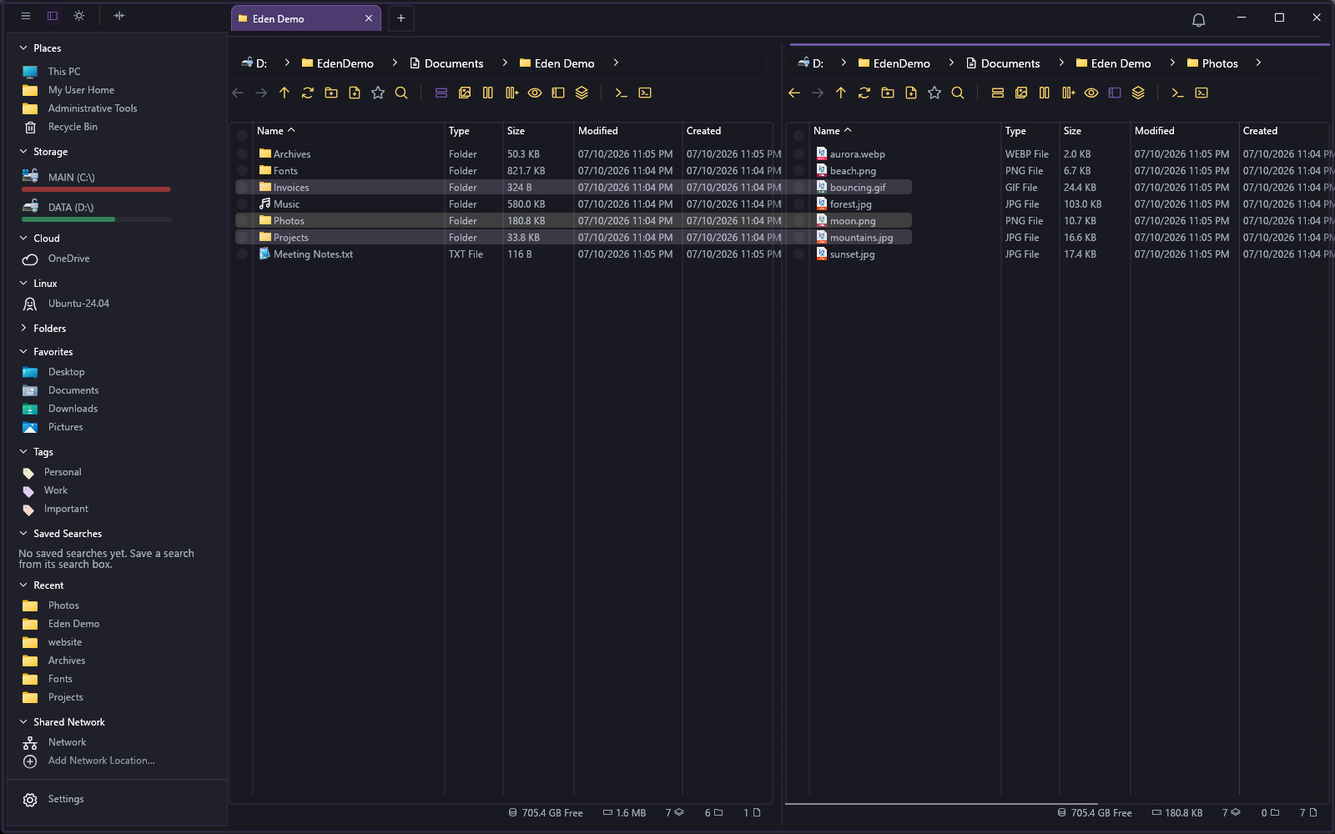
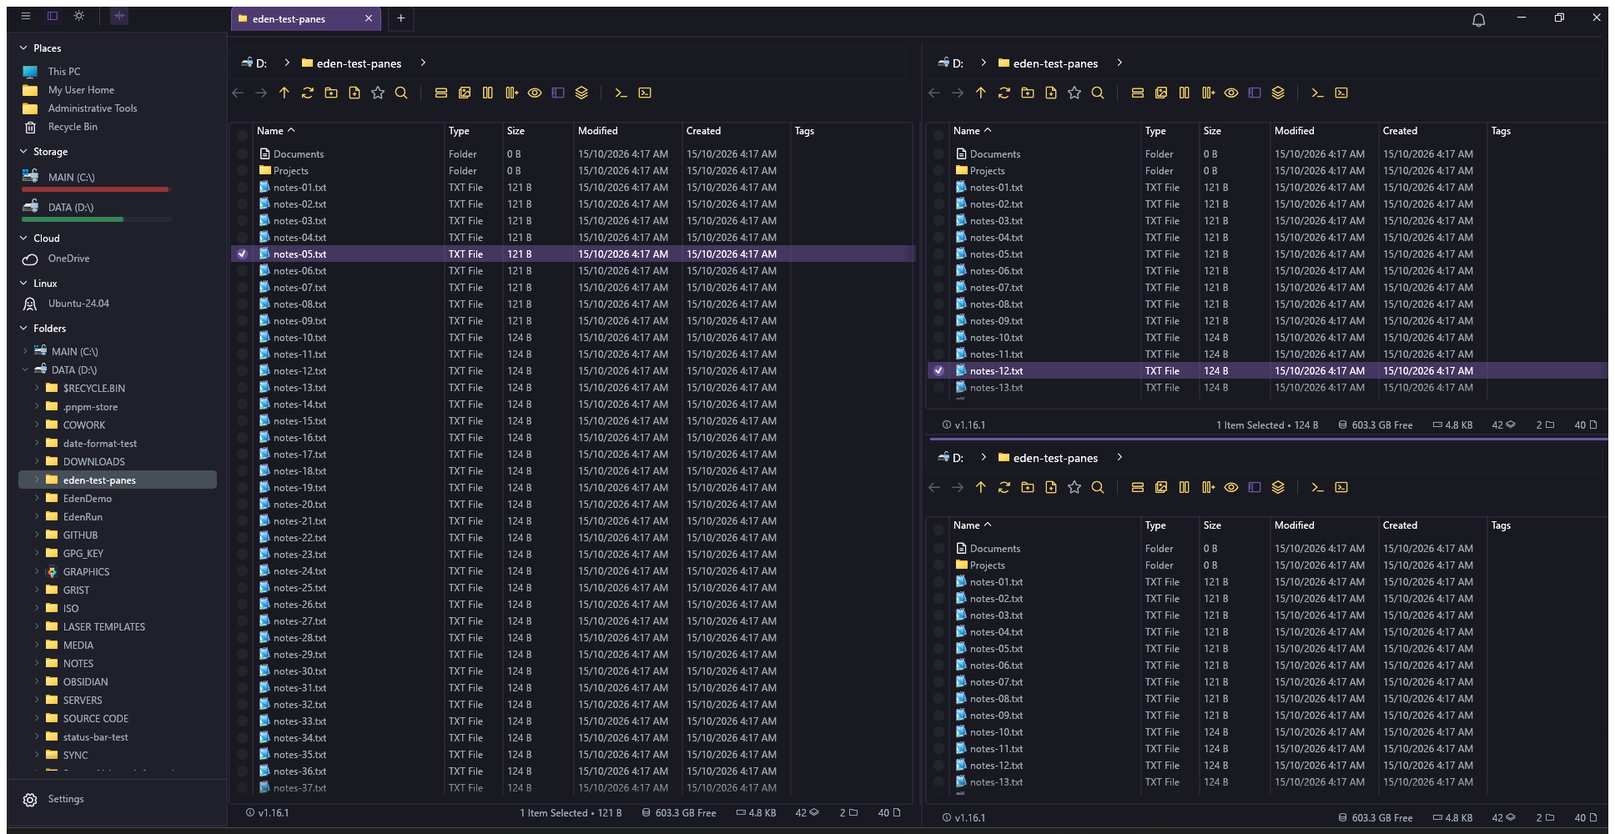
Document the three-pane verification, and screenshot it
Live-verified the four changes that shipped in v1.17.0 and marked them
Completed: the split button stepping through one/two/three panes, the arrow
keys moving only the focused pane's selection, the preview following the
selection and the arrow keys, and Nushell running in the terminal pane.
Screenshots/13-split-view.png is now the three-pane layout rather than the
old two-pane split.

Also recorded three lessons in CLAUDE.md: a guessed egui widget id that
resolves to nothing reads as "never scrolled" rather than "no answer" (and
what to do instead), every view being drawn once per pane means a keyboard
handler needs the is_focused gate, and a cache keyed by text length instead
of by the file it belongs to breaks on two files of the same size.

diff --git a/CHECKLIST.md b/CHECKLIST.md
@@ -609,31 +609,31 @@ Rationale and detail for each item is in `PRD.md` §9.
 
 | State | Item |
 |---|---|
-| In-Progress | **Direct user request: "add detail layout can have max 3 panes, instead of 2. For 3 pane, there a 2 columns, the first left column have 1 pane full height, and second right column have 2 pane split equal horizontal."** `SplitSide` gained a `Tertiary` variant and `TabState` a `third_view: Option<TabView>` (only ever `Some` alongside `split_view` - the third pane splits the *second* column, so it has nowhere to go without one). The topbar's split button is now a three-step cycle rather than a toggle (`cycle_split_for_active_tab`): one pane -> two side by side -> three -> back to one, its icon and tooltip naming what the *next* press does (`SPLIT_HORIZONTAL`/`tooltip_open_split`, `ROWS_PLUS_BOTTOM`/`tooltip_add_third_pane` - 1 new i18n key across all six locales - `ARROWS_IN_LINE_HORIZONTAL`/`tooltip_close_split`). The layout in `mainwindow.rs` was also **collapsed from three near-identical copies of the pane-drawing code (primary, secondary, single) into one loop** over `(side, rect)` pairs plus the untouched single-pane branch, writing each pane's actions into a 3-slot array - adding a third pane by copy-pasting the block a third time would have been ~110 more lines of duplication. Rects: the left column is `floor((width - 8) / 2)` wide and full height; the right column holds the second pane alone, or the second and third in equal halves with the same 8px gap and a divider line between them. Everything that has to touch "every open pane" (re-listing on window focus or a watched-folder change, Git status, portable tags, folder-size scans and batches, the end-of-frame drag reset, closing a tab's remembered folder views, the non-NTFS popup check, remote reloads) now iterates `TabState::sides()`/`views()`/`views_mut()` instead of a hard-coded Primary/Secondary pair, so a pane cannot be missed by one of them - the same shape of gap this file and `CLAUDE.md` have both recorded before. **Postcard safety**: `SessionTabEntry` gained `third_path` appended at the very end, plus a `SessionTabsSnapshotLegacy` shadow struct and fallback decode (the `CustomThemeEntryLegacy` pattern), so sessions saved by an older build still restore instead of being silently dropped on the first launch after the update; a test asserts both that the new shape round-trips all three panes and that it *cannot* decode legacy bytes (otherwise the fallback would never run). **Known limitation, deliberate**: a Tab Group entry still carries at most two folders (`path` + `split_path`), so adding a three-pane tab to a group saves its first two panes. `cargo test` (478) and the i18n check pass. **Live-verified**: the split button stepped one -> two -> three panes, rendering exactly the requested geometry (one full-height pane on the left, two equal stacked panes on the right, each with its own breadcrumb, toolbar and status bar). |
+| Completed | **Direct user request: "add detail layout can have max 3 panes, instead of 2. For 3 pane, there a 2 columns, the first left column have 1 pane full height, and second right column have 2 pane split equal horizontal."** `SplitSide` gained a `Tertiary` variant and `TabState` a `third_view: Option<TabView>` (only ever `Some` alongside `split_view` - the third pane splits the *second* column, so it has nowhere to go without one). The topbar's split button is now a three-step cycle rather than a toggle (`cycle_split_for_active_tab`): one pane -> two side by side -> three -> back to one, its icon and tooltip naming what the *next* press does (`SPLIT_HORIZONTAL`/`tooltip_open_split`, `ROWS_PLUS_BOTTOM`/`tooltip_add_third_pane` - 1 new i18n key across all six locales - `ARROWS_IN_LINE_HORIZONTAL`/`tooltip_close_split`). The layout in `mainwindow.rs` was also **collapsed from three near-identical copies of the pane-drawing code (primary, secondary, single) into one loop** over `(side, rect)` pairs plus the untouched single-pane branch, writing each pane's actions into a 3-slot array - adding a third pane by copy-pasting the block a third time would have been ~110 more lines of duplication. Rects: the left column is `floor((width - 8) / 2)` wide and full height; the right column holds the second pane alone, or the second and third in equal halves with the same 8px gap and a divider line between them. Everything that has to touch "every open pane" (re-listing on window focus or a watched-folder change, Git status, portable tags, folder-size scans and batches, the end-of-frame drag reset, closing a tab's remembered folder views, the non-NTFS popup check, remote reloads) now iterates `TabState::sides()`/`views()`/`views_mut()` instead of a hard-coded Primary/Secondary pair, so a pane cannot be missed by one of them - the same shape of gap this file and `CLAUDE.md` have both recorded before. **Postcard safety**: `SessionTabEntry` gained `third_path` appended at the very end, plus a `SessionTabsSnapshotLegacy` shadow struct and fallback decode (the `CustomThemeEntryLegacy` pattern), so sessions saved by an older build still restore instead of being silently dropped on the first launch after the update; a test asserts both that the new shape round-trips all three panes and that it *cannot* decode legacy bytes (otherwise the fallback would never run). **Known limitation, deliberate**: a Tab Group entry still carries at most two folders (`path` + `split_path`), so adding a three-pane tab to a group saves its first two panes. `cargo test` (478) and the i18n check pass. **Live-verified**: the split button stepped one -> two -> three panes, rendering exactly the requested geometry (one full-height pane on the left, two equal stacked panes on the right, each with its own breadcrumb, toolbar and status bar), and stepped back to one. `Screenshots/13-split-view.png` is now that three-pane layout rather than the old two-pane split. |
 
 ### Lists auto-scroll while a drag is held at their edge
 
 | State | Item |
 |---|---|
-| In-Progress | **Direct user request: "when user drag file/folder in the view that have scrollable bar, the scroll not move up or down to where user want the files/folder to move in. It should be like windows explorer."** With the primary button held, neither the wheel nor the scrollbar is reachable, so the only drop targets were the rows that happened to be visible when the drag began. `drag_scroll_delta` (`itemviewer_helper.rs`) returns the points to scroll this frame from the pointer's distance into a 40px edge zone (capped at the rect's own third, so a short list keeps a still zone in the middle), ramping to 900 points/s at the edge and staying there once past it; `drag_scroll_offset` reads the `ScrollArea`'s current offset out of `egui::scroll_area::State`, adds the delta, and asks for a repaint - a drag held still produces no events of its own, so without that the scroll would stop after one frame. Wired into the Details/Detail-Preview table (`TableBuilder::vertical_scroll_offset`, keyed off the table's own `state_id.with("__scroll_area")`) and the Gallery grid; Columns and Preview have no internal drag to scroll for. The far end needs no clamping of its own - `ScrollArea` clamps the offset against a content height only it knows. 5 unit tests cover the geometry (middle, each edge, past the edge, beside the list, and a list too short to have two edge zones). Works with spring-loaded folders: scroll to a folder, rest on it, keep going. |
+| Completed | **Direct user request: "when user drag file/folder in the view that have scrollable bar, the scroll not move up or down to where user want the files/folder to move in. It should be like windows explorer."** With the primary button held, neither the wheel nor the scrollbar is reachable, so the only drop targets were the rows that happened to be visible when the drag began. `drag_scroll_delta` (`itemviewer_helper.rs`) returns the points to scroll this frame from the pointer's distance into a 40px edge zone (capped at the rect's own third, so a short list keeps a still zone in the middle), ramping to 900 points/s at the edge and staying there once past it; `drag_scroll_offset` reads the `ScrollArea`'s current offset out of `egui::scroll_area::State`, adds the delta, and asks for a repaint - a drag held still produces no events of its own, so without that the scroll would stop after one frame. Wired into the Details/Detail-Preview table (`TableBuilder::vertical_scroll_offset`, keyed off the table's own `state_id.with("__scroll_area")`) and the Gallery grid; Columns and Preview have no internal drag to scroll for. The far end needs no clamping of its own - `ScrollArea` clamps the offset against a content height only it knows. 5 unit tests cover the geometry (middle, each edge, past the edge, beside the list, and a list too short to have two edge zones). Works with spring-loaded folders: scroll to a folder, rest on it, keep going. **Live-verified**: holding a drag at the bottom edge of a 42-item folder ran the list from the first row to the last within the hold, and holding at the top ran it back, ending with the target folder highlighted as the drop target. **One wrong turn worth recording**: the first cut looked the `ScrollArea`'s current offset up by id - `TableBuilder` derives its scroll area's id through two layers (`ui.id().with(state_id.with("__scroll_area"))`), the guess was wrong, and `State::load` returning `None` is indistinguishable from "never scrolled", so the list jumped by exactly one frame's worth of scroll and then sat there. Each list now keeps its own offset from the `ScrollAreaOutput` its scroll area returns, so there is no id to guess. |
 
 ### The preview pane follows the selection
 
 | State | Item |
 |---|---|
-| In-Progress | **Direct user request: "when user switch to preview and detail + preview layout, automatic selected file will preview the file on the right. And when user browse file using arrow up and down, allow the navigation so that the preview on the right also update."** Both preview layouts set `preview_selection` from a mouse click on a row and nowhere else, so arrow-key navigation moved the selection while the pane kept showing the file clicked before it, and switching *into* a preview layout with something already selected previewed nothing at all. `sync_preview_selection` (`itemviewer_preview.rs`) runs every frame in both layouts: a single selected item that is not already what the pane is showing becomes the new `preview_selection`, requesting its content if it is a file. Running it every frame rather than hooking the arrow keys covers every other way a selection can change too (type-to-filter, a search result, a newly created file). The Preview layout's list also scrolls its focused row into view on an arrow/Home/End press, which it had no way to do before (keyboard navigation has no row response of its own to scroll with). **Fixed a real bug this surfaced**: the preview's syntax-highlighted galley was cached keyed by `(text length, dark mode, find highlight)` - no file - so two different files of the *same* size showed one file's name above the other's contents (hit immediately with 65-byte test files, and the stale text then sat there indefinitely). The cache key now includes the path. The per-row click handler still requests its own preview, so a click still previews in the same frame rather than the next one. |
+| Completed | **Direct user request: "when user switch to preview and detail + preview layout, automatic selected file will preview the file on the right. And when user browse file using arrow up and down, allow the navigation so that the preview on the right also update."** Both preview layouts set `preview_selection` from a mouse click on a row and nowhere else, so arrow-key navigation moved the selection while the pane kept showing the file clicked before it, and switching *into* a preview layout with something already selected previewed nothing at all. `sync_preview_selection` (`itemviewer_preview.rs`) runs every frame in both layouts: a single selected item that is not already what the pane is showing becomes the new `preview_selection`, requesting its content if it is a file. Running it every frame rather than hooking the arrow keys covers every other way a selection can change too (type-to-filter, a search result, a newly created file). The Preview layout's list also scrolls its focused row into view on an arrow/Home/End press, which it had no way to do before (keyboard navigation has no row response of its own to scroll with). **Fixed a real bug this surfaced**: the preview's syntax-highlighted galley was cached keyed by `(text length, dark mode, find highlight)` - no file - so two different files of the *same* size showed one file's name above the other's contents (hit immediately with 65-byte test files, and the stale text then sat there indefinitely). The cache key now includes the path. The per-row click handler still requests its own preview, so a click still previews in the same frame rather than the next one. **Live-verified**: switching a pane to the Preview layout with a file already selected previewed it immediately (it would have shown an empty pane before), and three Down presses walked the preview from `notes-05.txt` to `notes-08.txt` with the body text following the title - which also exercises the stale-galley fix, since every file in that folder is the same size. |
 
 ### Nushell in the terminal pane, and a PATH that is not a stale copy
 
 | State | Item |
 |---|---|
-| In-Progress | **Direct user report: "I cannot run nu in terminal pane (https://www.nushell.sh/). Already install and put the path in environment variable (both user and system)."** Two things, and the second is the one that explains the report. (1) Nushell was simply not among the shells `core::terminal_shells` looks for: added `ShellKind::Nushell` with discovery (the winget/MSI `%ProgramFiles%\nu\bin\nu.exe`, Scoop, Chocolatey, `~/.cargo/bin`, the WinGet Links shim, then `PATH`), an argument-less launch (a bare `nu` starts its REPL in the folder the pseudo console is given), a `TERMINAL_WINDOW` icon, and a `cd_command` that quotes the way Nushell wants - single quotes take no escapes at all there, so a path containing an apostrophe switches to the double-quoted form with its backslashes doubled. (2) `find_on_path` read `std::env::var_os("PATH")`, which is the *copy this process was started with* - verified on this machine: `nu.exe` is on both the machine and user `PATH` in the registry and **not** in the running process's own environment, so even a correctly installed Nushell would not have been found. `path_dirs` now appends the `PATH` as the registry currently holds it (`HKLM\...\Session Manager\Environment` and `HKCU\Environment`, expanded) after the process's own, so a shell installed - or added to `PATH` - while the app was already running is found without restarting it; a test pins that the process's own entries still come first and that nothing is listed twice. |
+| Completed | **Direct user report: "I cannot run nu in terminal pane (https://www.nushell.sh/). Already install and put the path in environment variable (both user and system)."** Two things, and the second is the one that explains the report. (1) Nushell was simply not among the shells `core::terminal_shells` looks for: added `ShellKind::Nushell` with discovery (the winget/MSI `%ProgramFiles%\nu\bin\nu.exe`, Scoop, Chocolatey, `~/.cargo/bin`, the WinGet Links shim, then `PATH`), an argument-less launch (a bare `nu` starts its REPL in the folder the pseudo console is given), a `TERMINAL_WINDOW` icon, and a `cd_command` that quotes the way Nushell wants - single quotes take no escapes at all there, so a path containing an apostrophe switches to the double-quoted form with its backslashes doubled. (2) `find_on_path` read `std::env::var_os("PATH")`, which is the *copy this process was started with* - verified on this machine: `nu.exe` is on both the machine and user `PATH` in the registry and **not** in the running process's own environment, so even a correctly installed Nushell would not have been found. `path_dirs` now appends the `PATH` as the registry currently holds it (`HKLM\...\Session Manager\Environment` and `HKCU\Environment`, expanded) after the process's own, so a shell installed - or added to `PATH` - while the app was already running is found without restarting it; a test pins that the process's own entries still come first and that nothing is listed twice. **Live-verified**: Nushell appears in the terminal pane's **+** menu between Git Bash and the WSL distributions, starts in the folder being browsed (its prompt opened at the scratch folder), and runs commands - `ls | length` returned 42, matching that folder exactly. |
 
 ### Only the active pane walks its list on an arrow key
 
 | State | Item |
 |---|---|
-| In-Progress | **Direct user report, immediately after the three-pane and preview-follows-selection work above: "when user active on a pane, only that pane will do the action keyboard up and down to view the preview file, not all 2 or 3 pane at same time."** The Details/Detail-Preview table's `handle_keyboard_navigation` call (`itemviewer.rs`) was gated on `!modal_input_blocked` **only** - not on `is_focused`, which is what tells a pane it is the active one. A split draws that same table two or three times in one frame, each with its own `explorer_state`, so a single arrow key moved the selection in *every* pane at once. The Gallery view's equivalent call has always had the gate; the table's simply never did, and nothing made it visible while the selection was only a highlight. The preview pane following the selection is what surfaced it - every pane changed what it was showing together. Fixed by adding `&& is_focused`, matching Gallery. **Second half of the same report**: the **Preview** layout had no arrow-key navigation *at all* - `draw_item_viewer` returns into `draw_preview_view` before ever reaching that call, so its list could only be walked with the mouse. It now runs the same `handle_keyboard_navigation` itself, gated the same way, and scrolls the focused row into view. **When adding a keyboard handler to a view here, gate it on `is_focused`**: every view is drawn once per pane, so an ungated handler is not "the active pane's keyboard" but all of them at once. |
+| Completed | **Direct user report, immediately after the three-pane and preview-follows-selection work above: "when user active on a pane, only that pane will do the action keyboard up and down to view the preview file, not all 2 or 3 pane at same time."** The Details/Detail-Preview table's `handle_keyboard_navigation` call (`itemviewer.rs`) was gated on `!modal_input_blocked` **only** - not on `is_focused`, which is what tells a pane it is the active one. A split draws that same table two or three times in one frame, each with its own `explorer_state`, so a single arrow key moved the selection in *every* pane at once. The Gallery view's equivalent call has always had the gate; the table's simply never did, and nothing made it visible while the selection was only a highlight. The preview pane following the selection is what surfaced it - every pane changed what it was showing together. Fixed by adding `&& is_focused`, matching Gallery. **Second half of the same report**: the **Preview** layout had no arrow-key navigation *at all* - `draw_item_viewer` returns into `draw_preview_view` before ever reaching that call, so its list could only be walked with the mouse. It now runs the same `handle_keyboard_navigation` itself, gated the same way, and scrolls the focused row into view. **When adding a keyboard handler to a view here, gate it on `is_focused`**: every view is drawn once per pane, so an ungated handler is not "the active pane's keyboard" but all of them at once. **Live-verified**: with a different file selected in each pane of a split, pressing Down twice moved only the focused pane's selection (`notes-10` -> `notes-12`) and left the other pane's (`notes-05`) exactly where it was. |
 
 ### New app icon
 

diff --git a/CLAUDE.md b/CLAUDE.md
@@ -2534,6 +2534,58 @@ PowerShell process) rather than the app's own code - if you're using the
   unrelated change. Tests cannot run this way (they would be Windows
   binaries), and none of it replaces live verification of a UI change.
 
+- **A guessed `egui` widget id that resolves to nothing is indistinguishable
+  from a widget that has never been used - and for a scroll offset that means
+  "scrolled to the top", not "no answer".** The new drag auto-scroll read the
+  list's current offset with `egui::scroll_area::State::load(ctx, id)`, adding
+  a delta to it each frame. For the Details table the id was wrong:
+  `TableBuilder` builds its `ScrollArea` with
+  `id_salt(state_id.with("__scroll_area"))`, `ScrollArea` then resolves that
+  through `ui.make_persistent_id`, and `state_id` is itself
+  `ui.id().with(id_salt)` - so the real id is `ui.id().with(ui.id()
+  .with(id_salt).with("__scroll_area"))`, two layers deep. `load` returned
+  `None`, the code treated that as offset `0.0`, and the list therefore
+  jumped to exactly one frame's worth of scroll and sat there for ever while
+  the drag was held - which reads as "the feature half-works", not as "the id
+  is wrong". Two attempts at *deriving* the id (one layer, then two) both
+  missed; what settled it was a debug build printing the `load` result every
+  frame, which showed `state=None` with a perfectly good pointer and delta.
+  **The fix was to stop needing the id at all**: `Table::body` returns a
+  `ScrollAreaOutput`, and `ScrollArea::show`/`show_viewport` likewise, whose
+  `.state.offset.y` is the widget's own account of where it ended up - stored
+  in `ctx.data_mut` each frame under an id this code owns, and read back on
+  the next one. If something needs another widget's internal state, prefer
+  whatever that widget *returns* over reconstructing the id it files that
+  state under, and if an id must be guessed, make a miss fail loudly rather
+  than silently defaulting (`drag_scroll_offset` now returns `None` when the
+  state is missing instead of assuming `0.0`).
+- **Every view in this app is drawn once per pane, so a keyboard handler that
+  is not gated on `is_focused` is not "the active pane's keyboard" - it is all
+  of them at once.** `itemviewer.rs`'s call to `handle_keyboard_navigation`
+  was gated on `!modal_input_blocked` alone, so in a split every Details /
+  Detail-Preview pane moved its own selection on a single arrow key. Gallery's
+  equivalent call had always carried the gate; the table's simply never did.
+  Nothing made it visible while a selection was only a highlight - it took the
+  preview pane starting to follow the selection (so every pane visibly changed
+  what it was showing together) for the user to report it. The matching gap on
+  the other side: the **Preview** layout returns from `draw_item_viewer`
+  before that call is ever reached, so it had no arrow-key navigation at all.
+  When adding any keyboard handling to a view here, gate it on `is_focused`
+  and check whether the layouts that return early need their own copy - the
+  same "wired into one view out of six" shape this file already records for
+  gestures applies to keys.
+- **A cache keyed by a cheap proxy for the content (its length) instead of by
+  the thing it belongs to is a bug waiting for two items of the same size.**
+  The preview pane's syntax-highlighted galley was cached on `(text length,
+  dark mode, find highlight)` with a comment arguing the text could not change
+  without the enclosing path changing - true, but the path was not in the key.
+  Two different files of exactly the same size (65 bytes, in the case that
+  found it) therefore left the old galley in place: the pane showed one file's
+  name above another file's contents. It survived unnoticed for as long as the
+  preview only ever changed on a deliberate click, and broke immediately once
+  the preview started following the arrow keys. Key a cache by what it is
+  *for*, not by a value that happens to vary most of the time.
+
 ## Build & release workflow
 
 CI/CD runs on the **Forgejo** instance that hosts this repo (`git.zacx.net`), not

diff --git a/README.md b/README.md
@@ -122,7 +122,7 @@
 | | |
 |---|---|
 | ![Details view with tags](Screenshots/01-details-view-with-tags.png) | ![Gallery view](Screenshots/02-gallery-view.png) |
-| ![Markdown and Mermaid preview](Screenshots/07-markdown-mermaid-preview.png) | ![Split view](Screenshots/13-split-view.png) |
+| ![Markdown and Mermaid preview](Screenshots/07-markdown-mermaid-preview.png) | ![Three-pane split view](Screenshots/13-split-view.png) |
 | ![Bulk rename](Screenshots/23-bulk-rename.png) | ![Settings - Shortcuts](Screenshots/39-settings-shortcuts.png) |
 | ![Performance panel](Screenshots/44-performance-panel.png) | ![Benchmark This Folder results](Screenshots/45-performance-benchmark.png) |
 | ![Analyze Disk Usage](Screenshots/57-disk-usage.png) | ![Disk Usage - Largest Files](Screenshots/60-disk-usage-largest-files.png) |

diff --git a/Screenshots/README.md b/Screenshots/README.md
@@ -166,9 +166,9 @@ Clicking Ubuntu in the sidebar's Linux section opens the distribution's files wi
 
 ![Find in preview - highlights matches with next/previous navigation](12-find-in-preview.png)
 
-### Split-pane view
+### Split-pane view - up to three panes, one full-height on the left and two stacked on the right
 
-![Split-pane view](13-split-view.png)
+![Three-pane split view](13-split-view.png)
 
 ### File/folder right-click menu
 
